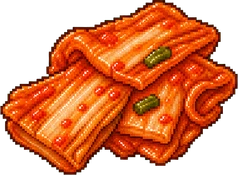
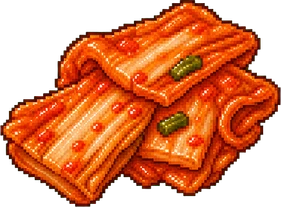
E11 두부 플레이팅 수정

diff --git a/tools/e11-tofu-plating-visual-smoke.html b/tools/e11-tofu-plating-visual-smoke.html
@@ -65,7 +65,7 @@
     /* 자유 플레이팅은 "놓은 자리에 그대로 얹히는가" 가 전부라, 화면을 베껴
        그리지 않고 **진짜 포인터 입력**으로 끌어다 놓고 결과를 잽니다.
 
-       ?place=N     끌어다 놓을 조각 수 (기본 11 = 완성)
+       ?place=N     끌어다 놓을 조각 수 (기본 12 = 완성)
        ?outside=1   접시 칸 왼쪽 위 귀퉁이(칸 안이지만 접시 타원 밖)에 놓아 봅니다 —
                     가장자리 안쪽으로 당겨 붙어야 합니다.
                     (칸 자체를 벗어나면 아예 안 놓이고 재료가 카드로 돌아갑니다)
@@ -73,9 +73,9 @@
        ?edge=1      접시 가장자리 여덟 곳(상하좌우 + 대각선)에 몰아 놓아 봅니다 —
                     조각이 접시 밖으로 삐져나오는지 보려는 것입니다 */
     const params = new URLSearchParams(location.search);
-    const placeCount = Math.max(0, Math.min(11, Number(params.get("place") ?? 11)));
+    const placeCount = Math.max(0, Math.min(12, Number(params.get("place") ?? 12)));
 
-    /* 끌어다 놓을 자리 11곳. 접시 칸(.os-drop) 기준 0~100 좌표이고,
+    /* 끌어다 놓을 자리 12곳. 접시 칸(.os-drop) 기준 0~100 좌표이고,
        일부러 정해진 자리가 아닌 제멋대로인 곳으로 골랐습니다. */
     const DROPS = [
       { id:"tofu", x:30, y:28 }, { id:"friedKimchi", x:52, y:36 },
@@ -83,7 +83,7 @@
       { id:"tofu", x:33, y:73 }, { id:"friedKimchi", x:44, y:58 },
       { id:"tofu", x:70, y:26 }, { id:"friedKimchi", x:57, y:70 },
       { id:"tofu", x:80, y:56 }, { id:"friedKimchi", x:38, y:42 },
-      { id:"tofu", x:64, y:76 }
+      { id:"tofu", x:64, y:76 }, { id:"friedKimchi", x:72, y:38 }
     ];
 
     loadDayPrepAssets().then(() => {
@@ -154,19 +154,30 @@
          want  : 끌어다 놓은 자리
          got   : 실제로 그려진 조각의 한가운데 (접시 칸 기준 %)
          off   : 둘의 차이 — 0 에 가까워야 "놓은 자리에 얹혔다" 는 뜻입니다
-         inside: 조각이 접시(타원) 안에 다 들어와 있는지 */
+         reach : 조각 귀퉁이가 접시 테두리까지의 몇 배까지 뻗었는지.
+                 1.0 이면 딱 테두리, 1.0 을 넘으면 그만큼 접시 밖입니다.
+         over  : 조각이 접시 밖으로 나간 정도 (조각 크기 대비 %). 어림값입니다 —
+                 조각을 접시 한가운데에서 뻗은 방향으로 눕혀 놓고 잽니다.
+                 "약간 걸치는" 정도를 보는 값이라 0 이 아니어도 됩니다 —
+                 25% 안팎까지가 담음새로 보이고, 50% 를 넘으면 떨어진 것처럼 보입니다.
+         center: 조각 한가운데는 늘 접시 위여야 합니다(true 가 아니면 규격 위반) */
       const placed = pieces.map((el, index) => {
         const r = rect(el);
         const cx = (r.left + r.width / 2 - dropRect.left) / dropRect.width * 100;
         const cy = (r.top + r.height / 2 - dropRect.top) / dropRect.height * 100;
         const want = wanted[index] || null;
-        // 조각 네 귀퉁이가 전부 접시 타원(반지름 50) 안인지
-        const corners = [[r.left,r.top],[r.right,r.top],[r.left,r.bottom],[r.right,r.bottom]];
-        const inside = corners.every(([x,y]) => {
-          const nx = ((x - dropRect.left) / dropRect.width - .5) / .5;
-          const ny = ((y - dropRect.top) / dropRect.height - .5) / .5;
-          return Math.hypot(nx, ny) <= 1.02;
-        });
+        // 접시 타원(반지름 50) 기준으로 정규화 — 1.0 이 테두리입니다
+        const norm = (x, y) => Math.hypot(((x - dropRect.left) / dropRect.width - .5) / .5,
+                                          ((y - dropRect.top) / dropRect.height - .5) / .5);
+        const reach = Math.max(...[[r.left,r.top],[r.right,r.top],[r.left,r.bottom],[r.right,r.bottom]]
+          .map(([x,y]) => norm(x, y)));
+        /* 조각이 "접시 한가운데에서 뻗은 방향" 으로 얼마나 두꺼운지.
+           네 귀퉁이를 그냥 재면 접시 위쪽·왼쪽에 놓인 조각에서 음수가 나옵니다
+           (귀퉁이가 바깥이 아니라 안쪽을 향합니다). 방향을 잡아 투영합니다. */
+        const ux = Math.abs((r.left + r.width / 2 - dropRect.left) / dropRect.width - .5);
+        const uy = Math.abs((r.top + r.height / 2 - dropRect.top) / dropRect.height - .5);
+        const len = Math.hypot(ux, uy) || 1;
+        const half = (r.width / dropRect.width / 2 * (ux / len) + r.height / dropRect.height / 2 * (uy / len)) / .5;
         return {
           id:data.placements[index]?.id,
           want:want ? `${want.x},${want.y}` : null,
@@ -174,7 +185,9 @@
           off:want ? +Math.hypot(cx - want.x, cy - want.y).toFixed(2) : null,
           size:`${r.width.toFixed(1)}x${r.height.toFixed(1)}`,
           rot:data.placements[index]?.rot,
-          inside
+          reach:+reach.toFixed(3),
+          over:half > 0 ? +Math.max(0, (norm(r.left + r.width / 2, r.top + r.height / 2) + half - 1) / (2 * half) * 100).toFixed(1) : null,
+          center:norm(r.left + r.width / 2, r.top + r.height / 2) <= 1
         };
       });
 
@@ -197,6 +210,13 @@
         // 접시 · 참고 모양도 같은 기준으로 재 둡니다 (표의 근거)
         design:{
           plate:`${(dropRect.width / scale).toFixed(1)}x${(dropRect.height / scale).toFixed(1)}`,
+          /* 접시 그림이 상자를 꽉 채우는지. 상자와 어긋나면 "접시 위" 판정이
+             눈에 보이는 접시와 어긋납니다(FREE_PLATE_RADIUS 가 헛돕니다). */
+          plateArt:(() => { const a = document.querySelector(".os-drop .os-vessel-asset");
+            if(!a || !a.naturalWidth) return null;
+            const r = rect(a), ratio = a.naturalWidth / a.naturalHeight;
+            const w = Math.min(r.width, r.height * ratio), h = Math.min(r.height, r.width / ratio);
+            return `${(w / scale).toFixed(1)}x${(h / scale).toFixed(1)}`; })(),
           guide:(() => { const g = document.querySelector(".os-guide-figure .os-vessel");
             const r = g && rect(g); return r ? `${(r.width / scale).toFixed(1)}x${(r.height / scale).toFixed(1)}` : null; })(),
           piece:(() => { const p = document.querySelector(".os-food.free .os-art-asset");
@@ -206,7 +226,9 @@
         // 접시에 그려진 조각들 — 여기가 이 하네스의 본론입니다
         placed,
         worstOff:Math.max(0, ...placed.map(p => p.off ?? 0)),
-        allInside:placed.every(p => p.inside),
+        // 가장 많이 삐져나온 조각이 얼마나 걸쳤는지 / 한가운데는 전부 접시 위인지
+        worstOver:Math.max(0, ...placed.map(p => p.over ?? 0)),
+        allCentersOnPlate:placed.every(p => p.center),
         finishing:!!data.finishing,
         complete:!!document.querySelector(".os-board.variant-free.complete"),
         hintGone:!document.querySelector(".os-drag-hint"),

diff --git a/engine-e11-one-shot.js b/engine-e11-one-shot.js
@@ -18,7 +18,8 @@
      재료 카드를 끌면 **한 조각씩** 딸려 나오고, 접시 안이라면 놓은 그 자리에
      그대로 얹힙니다(정해진 자리가 없습니다). 카드에는 남은 개수가 표시되고
      0 이 되면 꺼집니다. 정해진 개수를 다 얹으면 완성입니다.
-     · 접시 밖으로 놓으면 접시 가장자리 안쪽으로 당겨 붙습니다.
+     · 접시 밖으로 놓으면 접시 가장자리 쪽으로 당겨 붙습니다. 조각 한쪽이
+       테두리에 걸치는 것까지는 그대로 둡니다(FREE_PLATE_RADIUS 설명 참고).
      · 조각 그림·크기는 pieceArt / pieceAsset / pieceWidth 로 정합니다.
 
    [♻ 지금 쓰는 곳이 없는 것] drop · pour 연출
@@ -50,18 +51,19 @@
      pieceTilt   눕히는 각도를 하나로 못박습니다. 안 적으면 놓을 때마다
                  FREE_PLATE_TILTS 를 돌려 써서 각도가 조금씩 달라집니다. */
 const ONE_SHOT_PIECES=Object.freeze({
-  /* pieceWidth 는 '참고 모양' 그림에서 두부 한 조각이 접시 가로의 21% 인 것을
-     그대로 옮긴 값입니다. 김치는 낱개 그림이 한 조각이 아니라 서너 가닥 뭉치라
-     한 단계 큽니다. 둘을 키우면 11조각이 접시를 넘칩니다.
+  /* pieceWidth 는 접시 가로폭 대비 조각 크기(%)입니다. 김치는 낱개 그림이
+     한 조각이 아니라 서너 가닥 뭉치라 두부보다 한 단계 큽니다.
+     열두 조각이 접시를 넉넉히 덮도록 '참고 모양' 그림의 두부 한 조각(21%)보다
+     크게 잡았습니다 — 서로 겹치는 것은 담음새라 문제가 없습니다.
 
      ⚠ 두부는 pieceTilt:0 으로 각도를 고정합니다. 납품 그림이 비스듬히 내려다본
         입체 덩이라, 돌리면 그림 안의 원근(윗면이 보이는 방향)과 어긋나 조각마다
         다른 방향에서 본 두부처럼 보입니다. 김치는 뭉쳐 놓은 가닥이라 돌려도
         그런 어긋남이 없어 그대로 둡니다. */
   tofu:{label:"썬 두부",art:"tofuSlices",asset:"osTofuSlices",slot:"plate-left",
-        pieceArt:"tofuPiece",pieceAsset:"osTofuPiece",pieceWidth:21,pieceTilt:0},
+        pieceArt:"tofuPiece",pieceAsset:"osTofuPiece",pieceWidth:25,pieceTilt:0},
   friedKimchi:{label:"볶은 김치",art:"friedKimchi",asset:"osFriedKimchi",slot:"plate-right",
-        pieceArt:"kimchiPiece",pieceAsset:"osKimchiPiece",pieceWidth:22}
+        pieceArt:"kimchiPiece",pieceAsset:"osKimchiPiece",pieceWidth:26}
 });
 
 // 그릇. asset 은 빈 그릇, doneAsset 은 오른쪽 '참고 모양'에 쓰는 완성 그림입니다.
@@ -81,11 +83,17 @@ const ONE_SHOT_ART_PARTS=Object.freeze({tofuSlices:5,friedKimchi:4,tofuPiece:1,k
 
 /* ---- 자유 플레이팅 좌표 규격 --------------------------------
    x · y 는 접시 칸(.os-drop) 왼쪽 위를 0, 오른쪽 아래를 100 으로 본 값입니다.
-   접시는 칸을 꽉 채우는 타원이라 반지름은 50 인데, 조각이 접시 밖으로
-   삐져나오지 않게 아래 반지름 안쪽으로만 놓이게 잡아 둡니다.
-   (대각선 자리가 가장 빠듯해서 36 · 34 로 잡았습니다 — 더 키우면 접시
-    귀퉁이에 놓은 조각이 접시 밖으로 삐져나옵니다) */
-const FREE_PLATE_RADIUS=Object.freeze({x:36,y:34});
+   접시는 칸을 꽉 채우는 타원이라 반지름이 50 이고, 이 값은 **조각 한가운데가
+   갈 수 있는 가장 바깥**입니다.
+
+   조각을 통째로 접시 안에 가두지 않습니다 — 가장자리에 놓으면 한쪽이 접시
+   테두리에 살짝 걸치는 것이 실제 담음새에 가깝습니다. 대신 한가운데는 늘
+   접시 위라, 조각이 접시에서 떨어져 나가 보이지는 않습니다.
+   42 · 40 은 가장 바깥에 놓았을 때 조각의 5분의 1(대각선은 4분의 1 남짓)이
+   테두리에 걸치는 값입니다. 50 에 가까워질수록 반쯤 접시 밖으로 나가
+   떨어진 것처럼 보이고, 35 아래로 내리면 아예 안 걸칩니다.
+   (tools/e11-tofu-plating-visual-smoke.html?edge=1 의 over 값으로 잽니다) */
+const FREE_PLATE_RADIUS=Object.freeze({x:42,y:40});
 
 // 조각이 눕는 각도. 놓은 순서대로 돌려 쓰기만 하고 난수는 쓰지 않습니다
 // (다시 그려도 각도가 바뀌지 않아야 합니다).
@@ -98,9 +106,9 @@ const FREE_PLATE_SAMPLE=Object.freeze([
   // 두부 여섯 자리의 rot 이 전부 0 인 것은 pieceTilt:0 과 맞춘 것입니다
   {id:"tofu",x:24,y:30,rot:0},{id:"tofu",x:16,y:50,rot:0},{id:"tofu",x:25,y:71,rot:0},
   {id:"tofu",x:76,y:30,rot:0},{id:"tofu",x:84,y:51,rot:0},{id:"tofu",x:75,y:71,rot:0},
-  {id:"friedKimchi",x:44,y:35,rot:-10},{id:"friedKimchi",x:58,y:38,rot:8},
-  {id:"friedKimchi",x:50,y:52,rot:-4},{id:"friedKimchi",x:41,y:66,rot:14},
-  {id:"friedKimchi",x:60,y:65,rot:-9}
+  {id:"friedKimchi",x:44,y:33,rot:-10},{id:"friedKimchi",x:58,y:36,rot:8},
+  {id:"friedKimchi",x:42,y:50,rot:-4},{id:"friedKimchi",x:58,y:52,rot:14},
+  {id:"friedKimchi",x:44,y:68,rot:-9},{id:"friedKimchi",x:58,y:70,rot:6}
 ]);
 
 /* ---- 공용 화면 틀 ------------------------------------------ */
@@ -488,15 +496,15 @@ function finishOneShotAfter(m,data,delay){
 /* ============================================================
    1. 두부김치 플레이팅 (밤 조리)
 
-   썬 두부 6조각 + 볶은 김치 5조각을 접시에 옮기면 끝나는 연출용
+   썬 두부 6조각 + 볶은 김치 6조각을 접시에 옮기면 끝나는 연출용
    게임이라 실패가 없습니다. 제한시간도 세지 않습니다(timerRuns:false).
 
    재료 카드를 끌면 조각이 하나씩 딸려 나오고, 접시 안 어디에 놓든
-   그 자리에 그대로 얹힙니다. 11조각을 다 담으면 완성입니다.
+   그 자리에 그대로 얹힙니다. 12조각을 다 담으면 완성입니다.
    (담음새는 플레이어 마음대로라 자리에 따른 점수는 없습니다)
    ============================================================ */
 
-const PLATE_KIMCHI_STOCK=Object.freeze({tofu:6,friedKimchi:5});
+const PLATE_KIMCHI_STOCK=Object.freeze({tofu:6,friedKimchi:6});
 
 registerMiniEngine("plateKimchi",{
   timerRuns(){return false;},

diff --git a/tools/day4-logic-smoke.html b/tools/day4-logic-smoke.html
@@ -422,7 +422,9 @@ try{
   state.mini={complete:false,data:{}};
   MINI_ENGINES.plateKimchi.setup(state.mini,{set(){},difficulty:1});
   const freePlate=oneShotData();
-  assert(freePlate.free&&freePlate.variant==="free"&&oneShotTotal(freePlate)===11&&oneShotLeft(freePlate,"tofu")===6&&oneShotLeft(freePlate,"friedKimchi")===5,`E11 free plating stocks 6 tofu + 5 kimchi: total=${oneShotTotal(freePlate)}`);
+  assert(freePlate.free&&freePlate.variant==="free"&&oneShotTotal(freePlate)===12&&oneShotLeft(freePlate,"tofu")===6&&oneShotLeft(freePlate,"friedKimchi")===6,`E11 free plating stocks 6 tofu + 6 kimchi: total=${oneShotTotal(freePlate)}`);
+  // 두부는 각도를 못박고(pieceTilt), 조각 한가운데가 갈 수 있는 자리는 접시 안쪽입니다
+  assert(ONE_SHOT_PIECES.tofu.pieceTilt===0&&ONE_SHOT_PIECES.friedKimchi.pieceTilt===undefined&&FREE_PLATE_RADIUS.x<50&&FREE_PLATE_RADIUS.y<50,"E11 tofu keeps one fixed angle and piece centers stay on the plate");
   const freeDrop=dom.miniContent.querySelector(".os-drop");
   freeDrop.getBoundingClientRect=()=>({left:0,top:0,width:400,height:300});
   placeOneShotItem("tofu",{drop:freeDrop,clientX:120,clientY:90});
@@ -432,8 +434,9 @@ try{
   placeOneShotItem("tofu",{drop:freeDrop,clientX:900,clientY:150});
   const clamped=freePlate.placements[1];
   assert(Math.round(clamped.x)===50+FREE_PLATE_RADIUS.x&&Math.round(clamped.y)===50,`E11 free plating pulls an off-plate drop back inside the rim: x=${clamped.x}, y=${clamped.y}`);
-  for(let i=0;i<9;i++)placeOneShotItem(nextOneShotItemId(oneShotData()));
-  assert(oneShotData().placements.length===11&&oneShotData().finishing&&dom.miniContent.querySelectorAll(".os-drop .os-food.free").length===11&&dom.miniContent.querySelector(".os-board.variant-free.complete"),`E11 free plating finishes at eleven pieces: placed=${oneShotData().placements.length}`);
+  for(let i=0;i<10;i++)placeOneShotItem(nextOneShotItemId(oneShotData()));
+  assert(oneShotData().placements.length===12&&oneShotData().finishing&&dom.miniContent.querySelectorAll(".os-drop .os-food.free").length===12&&dom.miniContent.querySelector(".os-board.variant-free.complete"),`E11 free plating finishes at twelve pieces: placed=${oneShotData().placements.length}`);
+  assert(oneShotData().placements.filter(spot=>spot.id==="tofu").every(spot=>spot.rot===0),"E11 every tofu piece lands at the same angle");
   assert(nextOneShotItemId(oneShotData())===null&&dom.miniContent.querySelectorAll(".os-ing-card[disabled]").length===2,"E11 free plating empties both ingredient cards when the plate is full");
   const odenMenu=menuDataById("oden");
   assert(odenMenu.requiredPrepTasks.join(",")==="cutRadish,cutFishCake,cleanAnchovy"&&!PREP_TASKS.addOdenBroth,"Oden prep ends at the three cutting/cleaning tasks");

diff --git a/tools/build-minigame-art-webp.js b/tools/build-minigame-art-webp.js
@@ -499,10 +499,11 @@ const FILES = [
   { file:"E11/food_tofu_kimchi_reference_complete.png", size:[420,295], css:".os-guide-figure .os-vessel 210x147.5" },
   /* [접시에 얹히는 낱개 2장] 자유 플레이팅에서 한 조각씩 놓이는 그림입니다.
      .os-food.free 의 --w (접시 가로 대비 %) x 접시 540 이 곧 화면 크기입니다.
-       두부   21% → 113.4 폭, 그림 비율 1.194 라 세로 95.0
-       김치   22% → 118.8 폭, 그림 비율 1.358 라 세로  87.5 */
-  { file:"E11/food_tofu_kimchi_tofu_piece.png",   size:[227,190], css:".os-food.free 113.4x95.0 (두부 한 조각)" },
-  { file:"E11/food_tofu_kimchi_kimchi_piece.png", size:[238,175], css:".os-food.free 118.8x87.5 (김치 한 조각)" },
+     크기는 engine-e11 의 pieceWidth 하나로 정해지니 거기를 고치면 여기도 같이.
+       두부   25% → 135.0 폭, 그림 비율 1.194 라 세로 113.1
+       김치   26% → 140.4 폭, 그림 비율 1.358 라 세로 103.4 */
+  { file:"E11/food_tofu_kimchi_tofu_piece.png",   size:[270,226], css:".os-food.free 135.0x113.1 (두부 한 조각)" },
+  { file:"E11/food_tofu_kimchi_kimchi_piece.png", size:[281,207], css:".os-food.free 140.4x103.4 (김치 한 조각)" },
   /* [왼쪽 재료 카드 2장] 낱개가 아니라 더미로 그린 그림입니다.
      .os-ing-art .os-art 가 카드 폭 210 을 그대로 쓰고 세로는 그림 비율대로입니다.
        두부   1069/677 = 1.579 → 210x133.0

diff --git a/css/day-prep-minigames.css b/css/day-prep-minigames.css
@@ -1313,7 +1313,7 @@
    같은 크기여야 합니다). 여기 값은 그 전에 잠깐 쓰이는 기본값입니다. */
 /* 끌고 다닐 때는 안 돌립니다 — 놓이는 각도(engine-e11 의 pieceTilt)와 다르면
    놓는 순간 조각이 홱 돌아앉는 것처럼 보입니다. 살짝 키우기만 합니다. */
-.os-drag-ghost.piece { width: calc(115 * var(--upx)); transform: translate(-50%,-50%) scale(1.06); }
+.os-drag-ghost.piece { width: calc(138 * var(--upx)); transform: translate(-50%,-50%) scale(1.06); }
 .os-drag-ghost.returning { transition: left .22s ease,top .22s ease,opacity .22s ease,transform .22s ease; opacity: .25; transform: translate(-50%,-50%) scale(.72); }
 
 /* 그릇 : 접시(플레이팅) / 냄비(어묵탕) */
